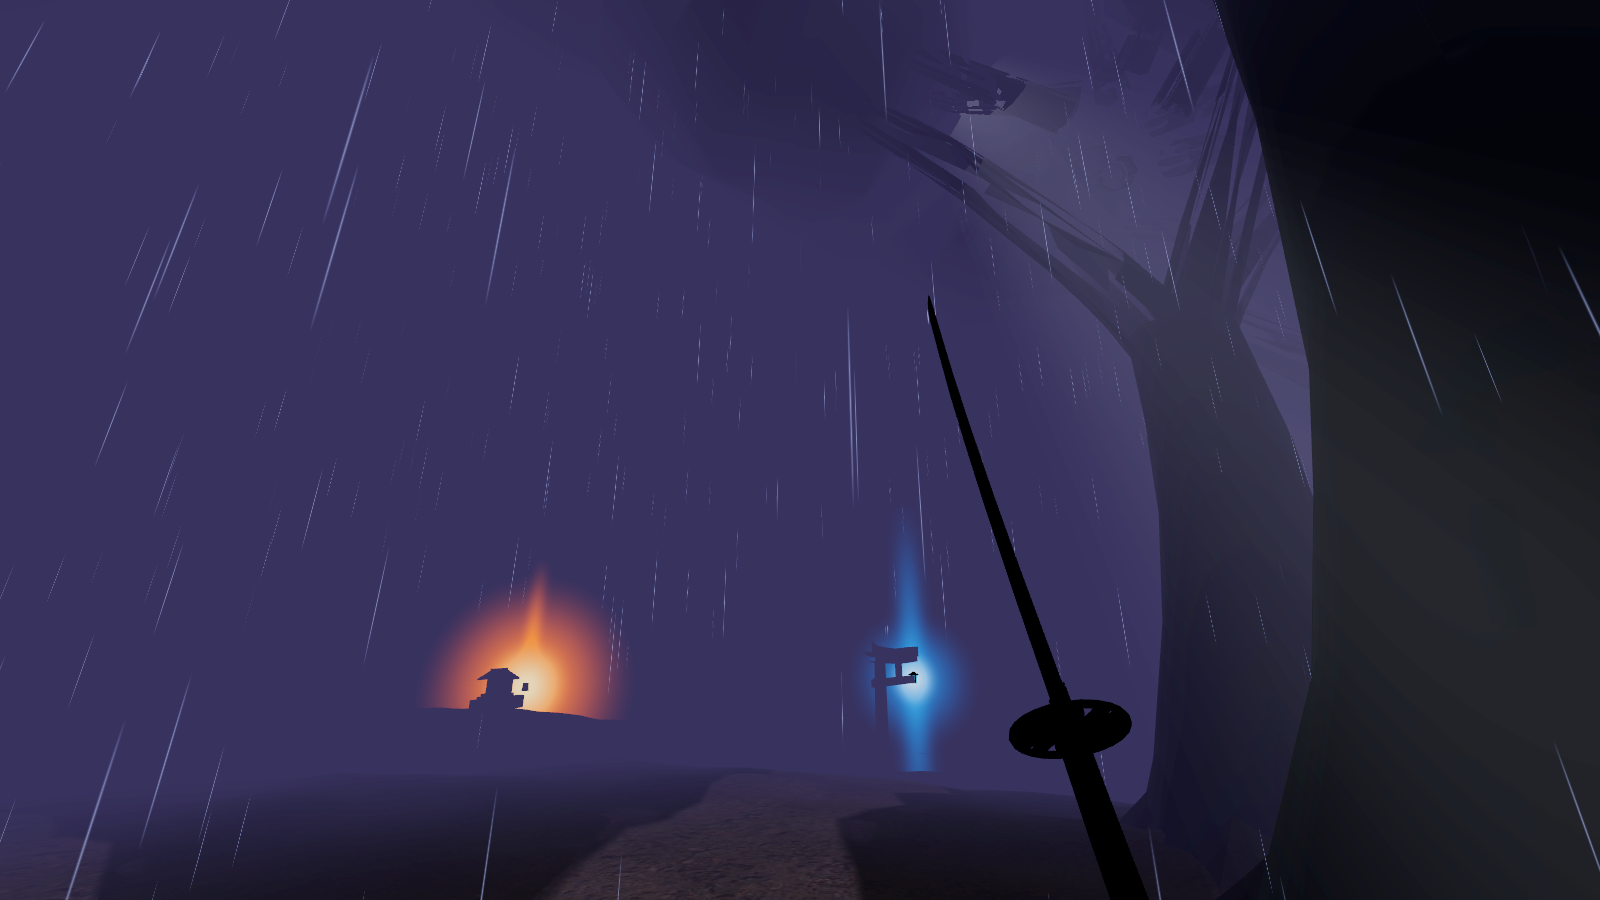
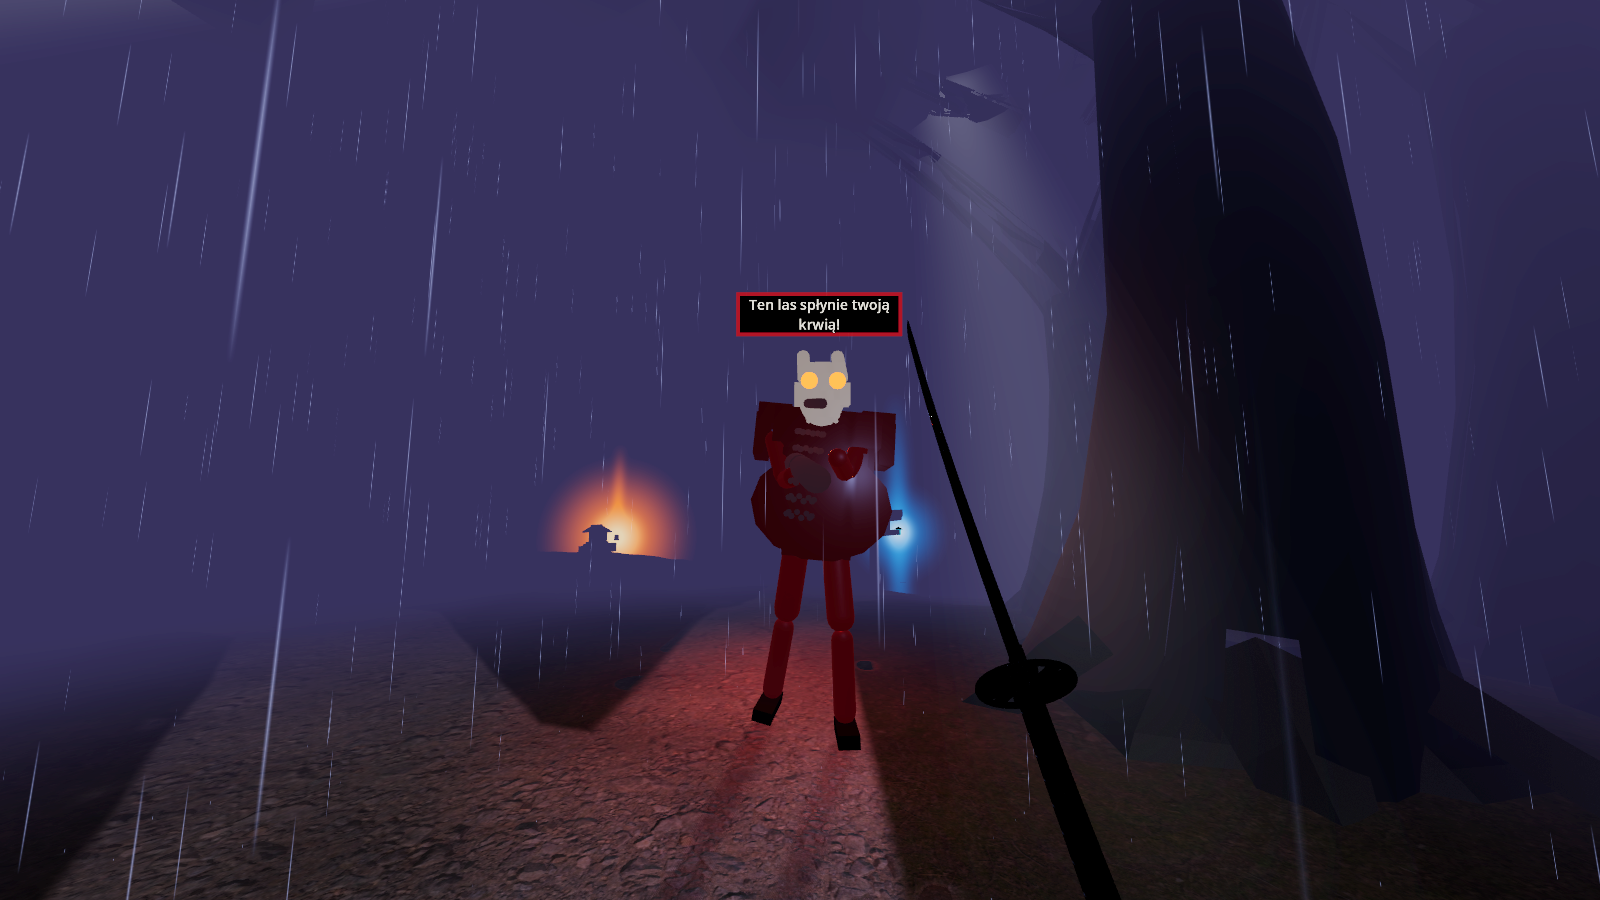
fix(d15): regenerate boss screenshots in window with frame checks; widen speech plate

diff --git a/docs/QUEST_TEST.md b/docs/QUEST_TEST.md
@@ -184,3 +184,8 @@ Sprawdź §19: `oni_fog_2m_wave`, `oni_fog_6m_wave`, `yokai_approach_stride`, `y
 ## D15 Oni boss — zrzuty (ręczne, NIE w suicie)
 
 `tests/oni_boss_screenshots.tscn` nie jest częścią `tools/run_tests.sh` (suita działa wyłącznie headless). Scena wymaga renderowanego okna (framebuffer): w `--headless` kończy się `exit 1` bez zapisu PNG i nie nadpisuje `docs/d15/`. Każdy zrzut przechodzi twarde asercje kadru (głowa, stopy, kanabō i dymek w kadrze; sylwetka różni się od tła), inaczej nie zapisuje PNG. Domyślnie zapis do `/tmp/hanabi_shots`; `--shots docs/d15` tylko świadomie, po zatwierdzeniu wyniku.
+
+Decyzje i ocena zrzutów D15 (commit z 3 PNG w `docs/d15/`):
+- Dymek: płyta 1.30 × 0.30 m, etykieta 340 px; poprzednia 0.92 m zawijała się do 3 linii i wychodziła poza płytę.
+- Telegraf: boss 2.9 m od gracza (w bramce ataku 2.85 + 0.55 m), obiektyw 85° tylko dla tego ujęcia, bo kanabō nad głową nie mieściło się w 75°.
+- Ocena surowa: kadr i czytelność dymka są w porządku. Nie jest to poziom premium: ragdoll to proste bryły, maska to szara plama, a kanabō podczas telegrafu zlewa się z maską (ciemny kształt na tle). Do poprawy modelem/materiałem kanabō, nie kadrem.
